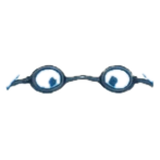
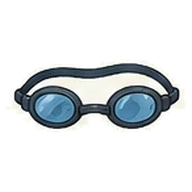
새 캐릭터 보드 반영: 메달 4종(초급·중급·상급·마스터즈)과 수영복+메달 / 수영복+수모+수경+메달 조합 그림 추가
- 보드의 메달·수모·수경·수영복 아이콘을 아이템 아이콘으로 사용
- 보드 목록(boards.ts)에 조합 20장 등록, 입은 것과 가장 비슷한 보드를 골라 보여줌
- 메달을 1개에서 4종으로 확장하고 예전 저장값(메달 1개)은 초급 메달로 이전

Claude-Session: https://claude.ai/code/session_01FoDKzQPxUVor71CCwyDNFk

Changed region(s): [[0.0312, 0.3125, 0.9688, 0.6875]]

diff --git a/src/components/bear/BearSprite.tsx b/src/components/bear/BearSprite.tsx
@@ -1,16 +1,15 @@
 import React, { memo, useCallback, useEffect, useMemo, useRef } from 'react';
 import { Animated, Easing, Image, Pressable, View } from 'react-native';
 import type { Equipped } from '../../storage/bear';
+import { BOARDS } from './boards';
+import type { Board, SwimPose } from './boards';
 
 // 둥실곰: 캐릭터 보드(assets/bear)의 그림을 한 장 그대로 쓴다. 덧그리거나 합성한 것은 없다.
-// 보드마다 입고 있는 것이 정해져 있어서(기본 / 수모 / 메달 / 남자 수영복 세트 / 여자 수영복 세트),
-// 아이템을 여러 개 입혀도 입은 것과 가장 비슷하게 그려진 보드 한 장을 보여준다.
-// 새 조합 보드가 오면 파일을 넣고 아래 표에 한 줄씩 추가한다.
+// 보드 목록(boards.ts)에는 장마다 곰이 무엇을 입고 있는지 적혀 있고,
+// 입은 아이템과 가장 비슷하게 그려진 보드 한 장을 골라 보여준다.
 
 export type BearMode = 'idle' | 'swim';
 
-type Variant = 'base' | 'cap' | 'medal' | 'onepiece' | 'trunks';
-type SwimPose = 'free' | 'fly' | 'breast' | 'back';
 const SWIM_POSES: SwimPose[] = ['free', 'fly', 'breast', 'back'];
 
 const FRONT = { w: 277, h: 499 };
@@ -24,75 +23,22 @@ const SWIM_BOX = { w: 411, h: 220 };
 const SWIM_HOLD_MS = 4200;
 const SWIM_FADE_MS = 600;
 
-const FRONT_IMG: Record<Variant, number> = {
-  base: require('../../../assets/bear/front-base.png'),
-  cap: require('../../../assets/bear/front-cap.png'),
-  medal: require('../../../assets/bear/front-medal.png'),
-  onepiece: require('../../../assets/bear/front-onepiece.png'),
-  trunks: require('../../../assets/bear/front-trunks.png'),
-};
-const SWIM_IMG: Record<Variant, Record<SwimPose, number>> = {
-  base: {
-    free: require('../../../assets/bear/swim-base-free.png'),
-    fly: require('../../../assets/bear/swim-base-fly.png'),
-    breast: require('../../../assets/bear/swim-base-breast.png'),
-    back: require('../../../assets/bear/swim-base-back.png'),
-  },
-  cap: {
-    free: require('../../../assets/bear/swim-cap-free.png'),
-    fly: require('../../../assets/bear/swim-cap-fly.png'),
-    breast: require('../../../assets/bear/swim-cap-breast.png'),
-    back: require('../../../assets/bear/swim-cap-back.png'),
-  },
-  medal: {
-    free: require('../../../assets/bear/swim-medal-free.png'),
-    fly: require('../../../assets/bear/swim-medal-fly.png'),
-    breast: require('../../../assets/bear/swim-medal-breast.png'),
-    back: require('../../../assets/bear/swim-medal-back.png'),
-  },
-  onepiece: {
-    free: require('../../../assets/bear/swim-onepiece-free.png'),
-    fly: require('../../../assets/bear/swim-onepiece-fly.png'),
-    breast: require('../../../assets/bear/swim-onepiece-breast.png'),
-    back: require('../../../assets/bear/swim-onepiece-back.png'),
-  },
-  trunks: {
-    free: require('../../../assets/bear/swim-trunks-free.png'),
-    fly: require('../../../assets/bear/swim-trunks-fly.png'),
-    breast: require('../../../assets/bear/swim-trunks-breast.png'),
-    back: require('../../../assets/bear/swim-trunks-back.png'),
-  },
-};
-// 각 보드 그림에 그려져 있는 것들. (수영복 보드에는 수모와 수경도 같이 그려져 있다.)
-const SHOWS: Record<Variant, string[]> = {
-  base: [],
-  cap: ['cap'],
-  medal: ['medal'],
-  onepiece: ['suit', 'cap', 'goggles'],
-  trunks: ['suit', 'cap', 'goggles'],
-};
-
-/** 입은 것(수영복·수경·수모·메달)과 가장 비슷하게 그려진 보드를 고른다. */
-function variantOf(e: Equipped): Variant {
-  const want = new Set<string>();
-  if (e.suit) want.add('suit');
-  if (e.goggles) want.add('goggles');
-  if (e.cap) want.add('cap');
-  if (e.medal) want.add('medal');
-  let best: Variant = 'base';
+/** 입은 것과 가장 비슷하게 그려진 보드를 고른다. (수영복 > 메달 > 수모·수경 순으로 중요하게 본다.) */
+function pickBoard(e: Equipped, needSwim: boolean): Board {
+  let best = BOARDS[0];
   let bestScore = -Infinity;
-  for (const v of Object.keys(SHOWS) as Variant[]) {
-    // 수영복은 입은 종류와 같은 보드를 우선한다.
-    if ((v === 'onepiece' || v === 'trunks') && e.suit && v !== e.suit) continue;
-    const shown = SHOWS[v];
-    // 수영복이 가장 눈에 띄어서 비중을 크게 둔다. 입지 않은 것이 그려진 보드는 감점한다.
-    const weight = (x: string) => (x === 'suit' ? 3 : 1);
-    const hit = shown.filter((x) => want.has(x)).reduce((n, x) => n + weight(x), 0);
-    const extra = shown.filter((x) => !want.has(x)).reduce((n, x) => n + weight(x), 0);
+  for (const b of BOARDS) {
+    if (needSwim && !b.swim) continue;
+    let hit = 0;
+    let extra = 0;
+    if (b.suit) (b.suit === e.suit ? (hit += 3) : (extra += 3));
+    if (b.medal) (b.medal === e.medal ? (hit += 2) : (extra += e.medal ? 3 : 2));
+    if (b.cap) (e.cap ? (hit += 1) : (extra += 1));
+    if (b.goggles) (e.goggles ? (hit += 1) : (extra += 1));
     const score = hit - extra * 0.6;
     if (score > bestScore) {
       bestScore = score;
-      best = v;
+      best = b;
     }
   }
   return best;
@@ -122,8 +68,7 @@ interface Props {
 
 function SwimBear({ height, equipped, paused }: { height: number; equipped: Equipped; paused?: boolean }) {
   const box = bearBox('swim', height);
-  const v = variantOf(equipped);
-  const set = SWIM_IMG[v];
+  const set = pickBoard(equipped, true).swim as NonNullable<Board['swim']>;
   const fades = useRef(SWIM_POSES.map((_, i) => new Animated.Value(i === 0 ? 1 : 0))).current;
   const current = useRef(0);
 
@@ -236,7 +181,7 @@ function StandingBear({ height, equipped, interactive, paused, onPress }: Omit<P
   const body = (
     <View style={{ width: box.width, height: box.height }} pointerEvents="none">
       <Animated.View style={[stageStyle, { transform }]}>
-        <Image source={FRONT_IMG[variantOf(equipped)]} style={layer} />
+        <Image source={pickBoard(equipped, false).front} style={layer} />
       </Animated.View>
     </View>
   );

diff --git a/src/components/bear/boards.ts b/src/components/bear/boards.ts
@@ -1,0 +1,39 @@
+import type { MedalId, SuitId } from '../../data/missions';
+
+// 캐릭터 보드 그림 목록. 한 장마다 곰이 무엇을 입고 있는지 적어 둔다.
+// 새 조합 보드가 오면 파일을 assets/bear에 넣고 여기에 한 줄만 추가하면 된다.
+// (swim: 헤엄치는 모습 4장이 있는 보드)
+
+export type SwimPose = 'free' | 'fly' | 'breast' | 'back';
+
+export interface Board {
+  suit: SuitId | null;
+  cap: boolean;
+  goggles: boolean;
+  medal: MedalId | null;
+  front: number;
+  swim?: Record<SwimPose, number>;
+}
+
+export const BOARDS: Board[] = [
+  { suit: null, cap: false, goggles: false, medal: null, front: require('../../../assets/bear/front-base.png'), swim: { free: require('../../../assets/bear/swim-base-free.png'), fly: require('../../../assets/bear/swim-base-fly.png'), breast: require('../../../assets/bear/swim-base-breast.png'), back: require('../../../assets/bear/swim-base-back.png') } },
+  { suit: null, cap: true, goggles: false, medal: null, front: require('../../../assets/bear/front-cap.png'), swim: { free: require('../../../assets/bear/swim-cap-free.png'), fly: require('../../../assets/bear/swim-cap-fly.png'), breast: require('../../../assets/bear/swim-cap-breast.png'), back: require('../../../assets/bear/swim-cap-back.png') } },
+  { suit: 'trunks', cap: true, goggles: true, medal: null, front: require('../../../assets/bear/front-trunks.png'), swim: { free: require('../../../assets/bear/swim-trunks-free.png'), fly: require('../../../assets/bear/swim-trunks-fly.png'), breast: require('../../../assets/bear/swim-trunks-breast.png'), back: require('../../../assets/bear/swim-trunks-back.png') } },
+  { suit: 'onepiece', cap: true, goggles: true, medal: null, front: require('../../../assets/bear/front-onepiece.png'), swim: { free: require('../../../assets/bear/swim-onepiece-free.png'), fly: require('../../../assets/bear/swim-onepiece-fly.png'), breast: require('../../../assets/bear/swim-onepiece-breast.png'), back: require('../../../assets/bear/swim-onepiece-back.png') } },
+  { suit: 'trunks', cap: false, goggles: false, medal: 'medal1', front: require('../../../assets/bear/front-suit-trunks-m1.png') },
+  { suit: 'trunks', cap: false, goggles: false, medal: 'medal2', front: require('../../../assets/bear/front-suit-trunks-m2.png') },
+  { suit: 'trunks', cap: false, goggles: false, medal: 'medal3', front: require('../../../assets/bear/front-suit-trunks-m3.png') },
+  { suit: 'trunks', cap: false, goggles: false, medal: 'medal4', front: require('../../../assets/bear/front-suit-trunks-m4.png') },
+  { suit: 'onepiece', cap: false, goggles: false, medal: 'medal1', front: require('../../../assets/bear/front-suit-onepiece-m1.png') },
+  { suit: 'onepiece', cap: false, goggles: false, medal: 'medal2', front: require('../../../assets/bear/front-suit-onepiece-m2.png') },
+  { suit: 'onepiece', cap: false, goggles: false, medal: 'medal3', front: require('../../../assets/bear/front-suit-onepiece-m3.png') },
+  { suit: 'onepiece', cap: false, goggles: false, medal: 'medal4', front: require('../../../assets/bear/front-suit-onepiece-m4.png') },
+  { suit: 'trunks', cap: true, goggles: true, medal: 'medal1', front: require('../../../assets/bear/front-full-trunks-m1.png') },
+  { suit: 'trunks', cap: true, goggles: true, medal: 'medal2', front: require('../../../assets/bear/front-full-trunks-m2.png') },
+  { suit: 'trunks', cap: true, goggles: true, medal: 'medal3', front: require('../../../assets/bear/front-full-trunks-m3.png') },
+  { suit: 'trunks', cap: true, goggles: true, medal: 'medal4', front: require('../../../assets/bear/front-full-trunks-m4.png') },
+  { suit: 'onepiece', cap: true, goggles: true, medal: 'medal1', front: require('../../../assets/bear/front-full-onepiece-m1.png') },
+  { suit: 'onepiece', cap: true, goggles: true, medal: 'medal2', front: require('../../../assets/bear/front-full-onepiece-m2.png') },
+  { suit: 'onepiece', cap: true, goggles: true, medal: 'medal3', front: require('../../../assets/bear/front-full-onepiece-m3.png') },
+  { suit: 'onepiece', cap: true, goggles: true, medal: 'medal4', front: require('../../../assets/bear/front-full-onepiece-m4.png') },
+];

diff --git a/src/storage/bear.ts b/src/storage/bear.ts
@@ -1,7 +1,7 @@
 // 내 둥실곰: 가진 아이템, 입고 있는 아이템, 미션 진행 상황. 기기에 저장한다.
 import { useEffect, useState } from 'react';
 import AsyncStorage from 'expo-sqlite/kv-store';
-import { ItemId, ITEMS } from '../data/missions';
+import { ItemId, ITEMS, MedalId } from '../data/missions';
 import { applyMissionComplete, BearState, CompleteResult, currentTier, Equipped } from '../utils/missionLogic';
 
 export type { BearState, CompleteResult, Equipped } from '../utils/missionLogic';
@@ -11,10 +11,18 @@ const KEY = '@doongsil/bear';
 
 const EMPTY: BearState = {
   owned: [],
-  equipped: { suit: null, goggles: false, cap: false, medal: false },
+  equipped: { suit: null, goggles: false, cap: false, medal: null },
   done: {},
   introSeen: false,
 };
+
+/** 예전 버전의 저장값(메달이 하나뿐이던 때)을 지금 형식으로 바꾼다. */
+function migrate(state: BearState): BearState {
+  const owned = state.owned.map((id) => ((id as string) === 'medal' ? 'medal1' : id)) as BearState['owned'];
+  const m = state.equipped.medal as unknown;
+  const medal = m === true || m === 'medal' ? 'medal1' : typeof m === 'string' && m.startsWith('medal') ? (m as MedalId) : null;
+  return { ...state, owned, equipped: { ...state.equipped, medal } };
+}
 
 let cache: BearState | null = null;
 const listeners = new Set<(s: BearState) => void>();
@@ -24,7 +32,7 @@ export async function getBearState(): Promise<BearState> {
   try {
     const raw = await AsyncStorage.getItem(KEY);
     const parsed = raw ? JSON.parse(raw) : null;
-    cache = parsed && typeof parsed === 'object' ? { ...EMPTY, ...parsed, equipped: { ...EMPTY.equipped, ...parsed.equipped } } : EMPTY;
+    cache = parsed && typeof parsed === 'object' ? migrate({ ...EMPTY, ...parsed, equipped: { ...EMPTY.equipped, ...parsed.equipped } }) : EMPTY;
   } catch {
     cache = EMPTY;
   }
@@ -79,7 +87,7 @@ export async function setEquipped(patch: Partial<Equipped>): Promise<void> {
   if (equipped.suit && !state.owned.includes(equipped.suit)) equipped.suit = null;
   if (equipped.goggles && !state.owned.includes('goggles')) equipped.goggles = false;
   if (equipped.cap && !state.owned.includes('cap')) equipped.cap = false;
-  if (equipped.medal && !state.owned.includes('medal')) equipped.medal = false;
+  if (equipped.medal && !state.owned.includes(equipped.medal)) equipped.medal = null;
   await save({ ...state, equipped });
 }
 

diff --git a/src/data/missions.ts b/src/data/missions.ts
@@ -2,7 +2,8 @@
 // 지금은 초급(첫 5개 미션)만 열려 있고, 중급 이상은 이 배열에 티어를 추가하면 화면이 알아서 이어 붙는다.
 
 export type SuitId = 'trunks' | 'onepiece';
-export type ItemId = SuitId | 'goggles' | 'cap' | 'medal';
+export type MedalId = 'medal1' | 'medal2' | 'medal3' | 'medal4';
+export type ItemId = SuitId | 'goggles' | 'cap' | MedalId;
 
 export interface ItemDef {
   id: ItemId;
@@ -12,11 +13,14 @@ export interface ItemDef {
 }
 
 export const ITEMS: Record<ItemId, ItemDef> = {
-  trunks: { id: 'trunks', name: '검정 숏 사각 팬티', slot: 'suit', desc: '기본 수영복' },
-  onepiece: { id: 'onepiece', name: '검정 원피스 수영복', slot: 'suit', desc: '기본 수영복 (미드컷)' },
+  trunks: { id: 'trunks', name: '남자 숏사각 수영복', slot: 'suit', desc: '기본 수영복' },
+  onepiece: { id: 'onepiece', name: '여자 원피스 수영복', slot: 'suit', desc: '기본 수영복 (미드컷)' },
   goggles: { id: 'goggles', name: '파랑 수경', slot: 'goggles', desc: '푸른 렌즈 수경' },
   cap: { id: 'cap', name: '파랑 곰 수모', slot: 'cap', desc: '둥실곰 로고가 붙은 파란 수모' },
-  medal: { id: 'medal', name: '초급 메달', slot: 'medal', desc: '초급 승급 기념 금메달' },
+  medal1: { id: 'medal1', name: '초급 메달', slot: 'medal', desc: '초급 승급 기념 메달 (초록 리본)' },
+  medal2: { id: 'medal2', name: '중급 메달', slot: 'medal', desc: '중급 승급 기념 은메달 (파랑 리본)' },
+  medal3: { id: 'medal3', name: '상급 메달', slot: 'medal', desc: '상급 승급 기념 동메달 (빨강 리본)' },
+  medal4: { id: 'medal4', name: '마스터즈 메달', slot: 'medal', desc: '마스터즈 승급 기념 금메달 (노랑 리본)' },
 };
 
 export type MissionKind =
@@ -52,7 +56,7 @@ export const TIERS: TierDef[] = [
   {
     id: 'beginner',
     name: '초급',
-    reward: ['medal'],
+    reward: ['medal1'],
     missions: [
       { id: 'buy-gear', title: '수영 준비물 사기', label: '수영 준비물\n사기', kind: 'confirm', reward: ['trunks', 'onepiece'], doneLabel: '준비물을 샀어요', doneMessage: '준비물 완료!' },
       { id: 'etiquette', title: '수영예절 읽기', label: '수영예절\n읽기', kind: 'confirm', reward: ['cap'], doneLabel: '다 읽었어요', doneMessage: '예절 완료!' },

diff --git a/src/data/itemImages.ts b/src/data/itemImages.ts
@@ -1,10 +1,13 @@
 import type { ItemId } from './missions';
 
-// 아이템 아이콘: 캐릭터 보드 그림에서 아이템 부분만 오려낸 것.
+// 아이템 아이콘: 캐릭터 보드(아이템 목록)에서 오려낸 그림.
 export const ITEM_IMAGES: Record<ItemId, number> = {
   trunks: require('../../assets/items/trunks.png'),
   onepiece: require('../../assets/items/onepiece.png'),
   goggles: require('../../assets/items/goggles.png'),
   cap: require('../../assets/items/cap.png'),
-  medal: require('../../assets/items/medal.png'),
+  medal1: require('../../assets/items/medal1.png'),
+  medal2: require('../../assets/items/medal2.png'),
+  medal3: require('../../assets/items/medal3.png'),
+  medal4: require('../../assets/items/medal4.png'),
 };

diff --git a/src/screens/BearCustomizeScreen.tsx b/src/screens/BearCustomizeScreen.tsx
@@ -31,7 +31,7 @@ const SLOTS: Slot[] = [
   },
   { key: 'goggles', label: '수경', items: ['goggles'], selected: (e) => (e.goggles ? 'goggles' : null), patch: (id) => ({ goggles: id === 'goggles' }) },
   { key: 'cap', label: '수모', items: ['cap'], selected: (e) => (e.cap ? 'cap' : null), patch: (id) => ({ cap: id === 'cap' }) },
-  { key: 'medal', label: '메달', items: ['medal'], selected: (e) => (e.medal ? 'medal' : null), patch: (id) => ({ medal: id === 'medal' }) },
+  { key: 'medal', label: '메달', items: ['medal1', 'medal2', 'medal3', 'medal4'], selected: (e) => e.medal, patch: (id) => ({ medal: id as Equipped['medal'] }) },
 ];
 
 export default function BearCustomizeScreen() {

diff --git a/src/components/MissionCard.tsx b/src/components/MissionCard.tsx
@@ -203,7 +203,7 @@ export default function MissionCard({ recordCount, onAddRecord, onOpenCustomize 
                           else if (id === 'onepiece' && !patch.suit) patch.suit = 'onepiece';
                           else if (id === 'goggles') patch.goggles = true;
                           else if (id === 'cap') patch.cap = true;
-                          else if (id === 'medal') patch.medal = true;
+                          else if (id.startsWith('medal')) patch.medal = id;
                         }
                         await setEquipped(patch);
                         setReward(null);

diff --git a/src/utils/missionLogic.ts b/src/utils/missionLogic.ts
@@ -1,11 +1,11 @@
 // 미션 진행 계산 — 저장소/React와 분리한 순수 로직(단독으로 테스트할 수 있다).
-import { ItemId, MissionDef, SuitId, TIERS, TierDef } from '../data/missions';
+import { ItemId, MedalId, MissionDef, SuitId, TIERS, TierDef } from '../data/missions';
 
 export interface Equipped {
   suit: SuitId | null;
   goggles: boolean;
   cap: boolean;
-  medal: boolean;
+  medal: MedalId | null;
 }
 
 export interface BearState {
